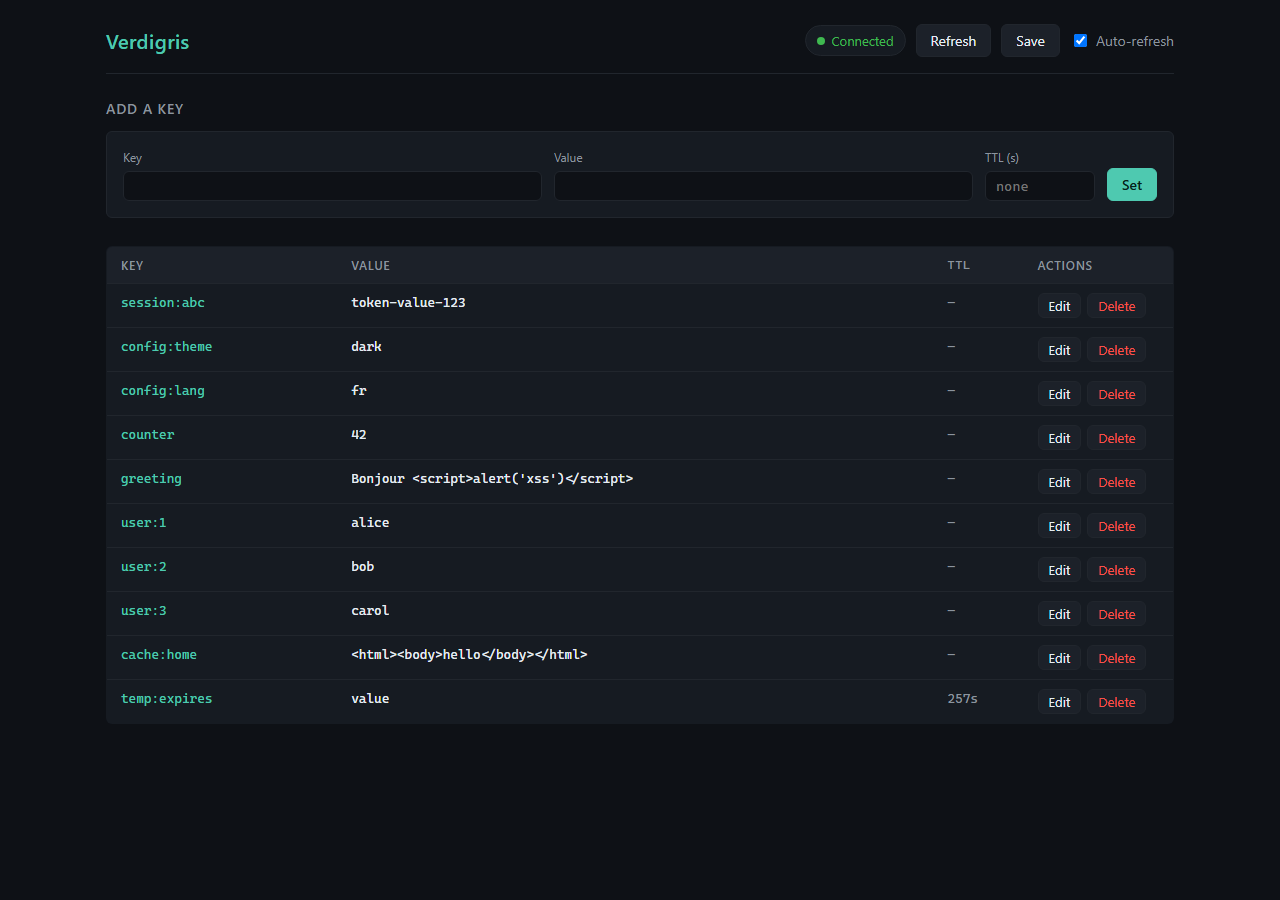
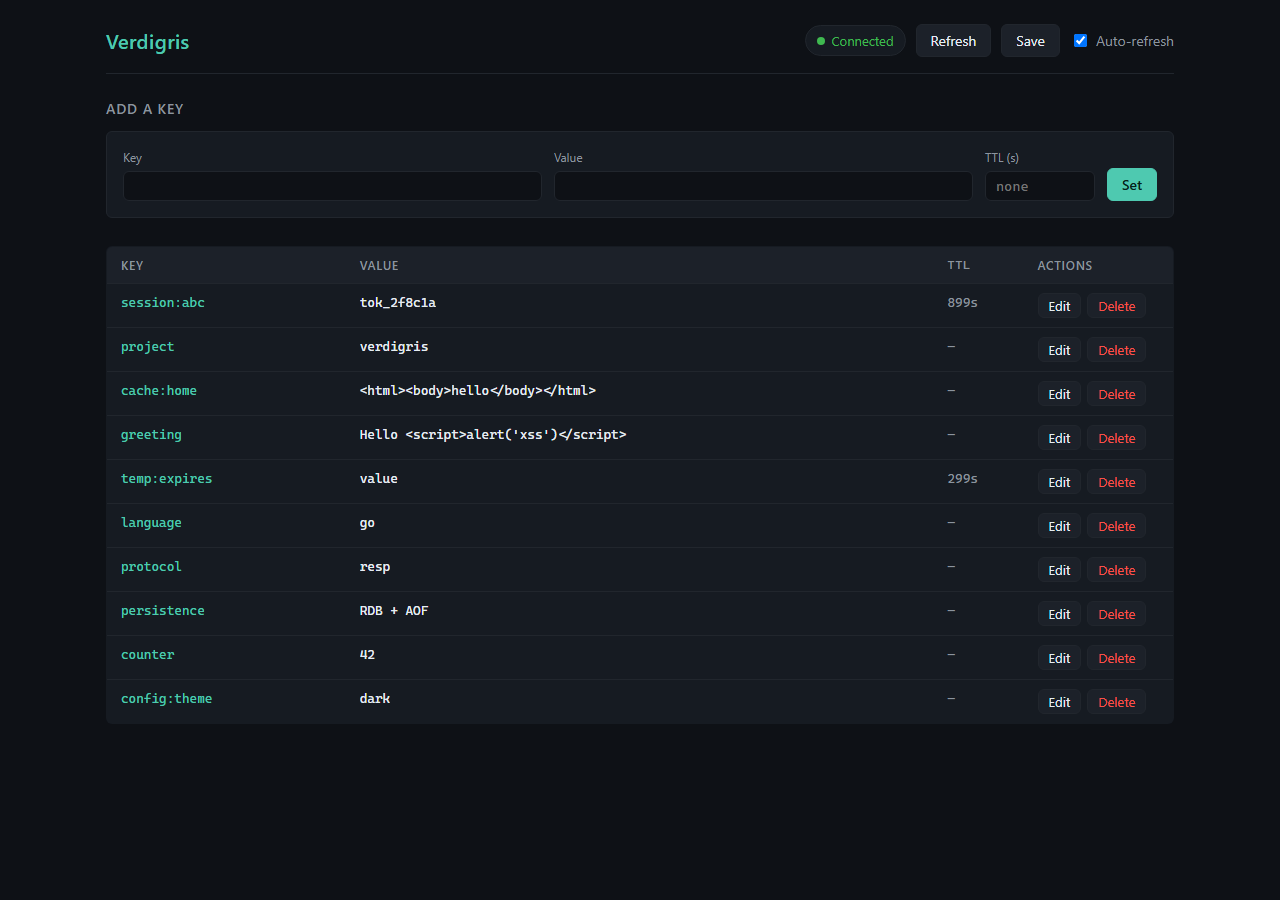
docs(readme): demonstrate the project at a glance
Restructures the top of the README so the UI screenshot appears as a
hero image, followed by a quick-start block and a real redis-cli
session proving RESP compatibility. The screenshot is now populated
with a mix of persistent keys, TTL keys, binary-safe values, and an
XSS probe payload.

No source changes.

diff --git a/README.md b/README.md
@@ -2,6 +2,58 @@
 
 A Redis-compatible key-value store, written from scratch in Go.
 
+<img src="docs/screenshots/ui.png" alt="Verdigris Web UI" width="720">
+
+Verdigris speaks RESP over TCP well enough that `redis-cli` and any other Redis
+client work against it unchanged, and it keeps that keyspace across a restart
+with a point-in-time snapshot, an append-only log, or both. It is built from the
+standard library alone — its own protocol codec, its own store, its own file
+formats — so the whole engine is readable in an afternoon. The screenshot above
+is the admin UI (`cmd/verdigris-ui`) talking to the server as an ordinary RESP
+client, the same way `redis-cli` does.
+
+## Quick start
+
+```bash
+go run ./cmd/verdigris        # the server, listening on :6379
+go run ./cmd/verdigris-ui     # the admin UI, on :8080
+```
+
+Then open <http://127.0.0.1:8080> — or skip the UI and use `redis-cli`.
+
+## A real session
+
+Protocol compatibility is the whole claim, so here it is rather than a
+description of it. This is a `redis-cli` session against Verdigris, pasted
+verbatim from the run that produced the screenshot above:
+
+```console
+$ redis-cli -p 6379 PING
+PONG
+$ redis-cli -p 6379 SET user:1 alice
+OK
+$ redis-cli -p 6379 GET user:1
+alice
+$ redis-cli -p 6379 EXISTS user:1
+1
+$ redis-cli -p 6379 SET session:abc "token-value" EX 300
+OK
+$ redis-cli -p 6379 TTL session:abc
+300
+$ redis-cli -p 6379 KEYS *
+user:1
+session:abc
+$ redis-cli -p 6379 DEL user:1
+1
+$ redis-cli -p 6379 EXISTS user:1
+0
+$ redis-cli -p 6379 SAVE
+OK
+```
+
+Nothing above is Verdigris-specific: no new commands, no changed replies, no
+extra flags. A client that works against Redis works here.
+
 ## Status
 
 Milestones 1–9 complete. The server is a working string store with key
